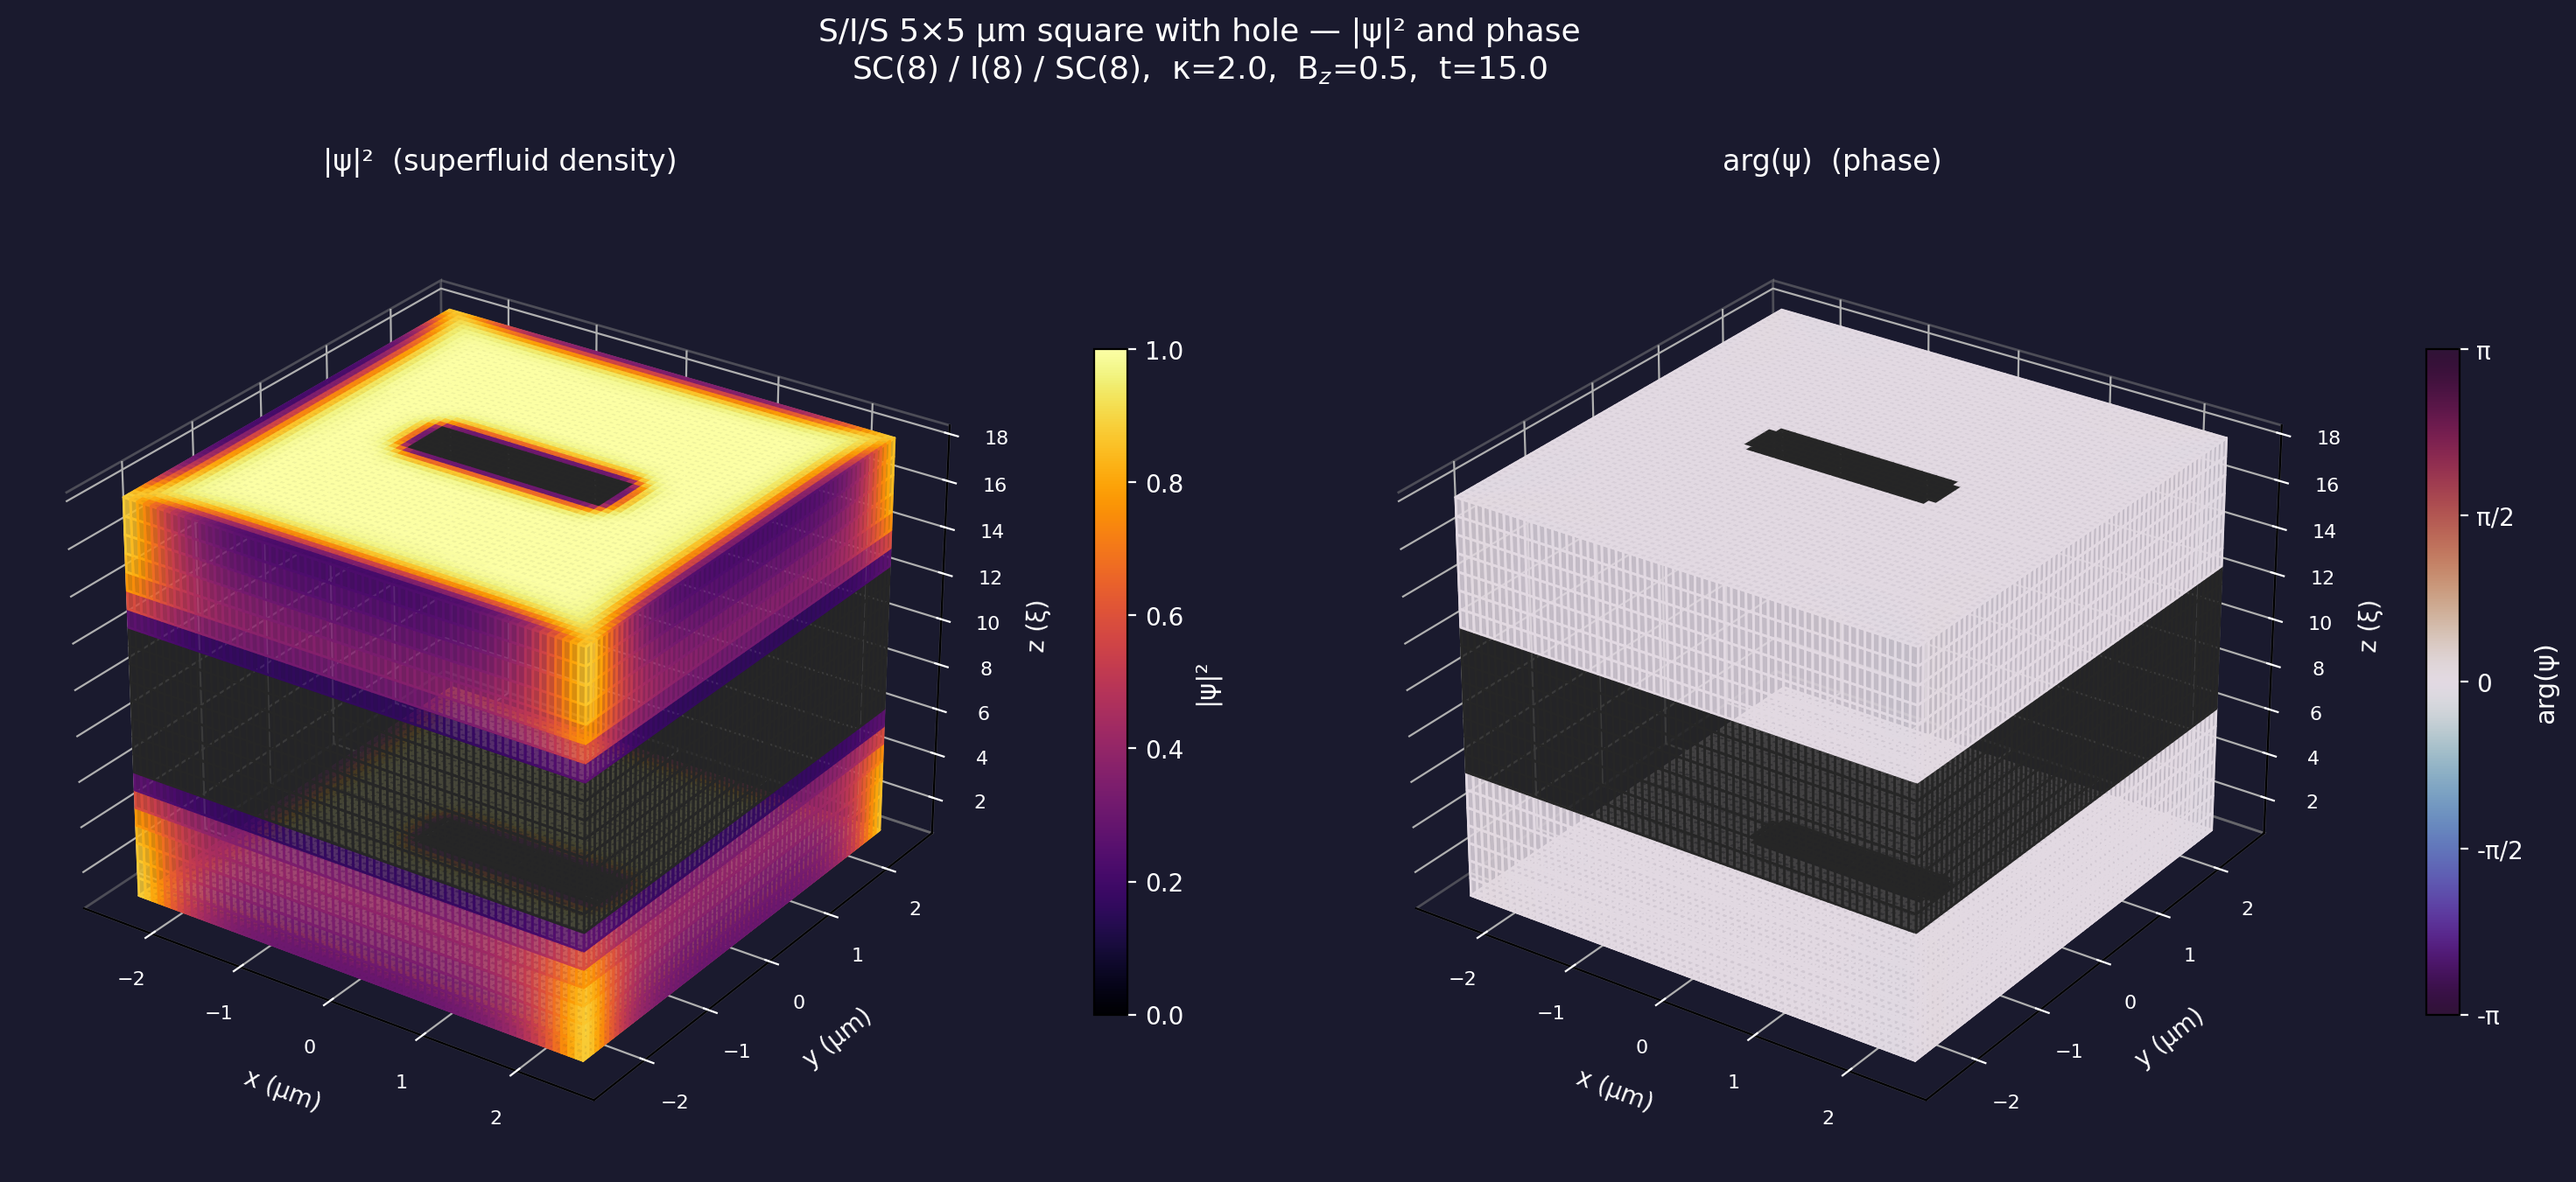
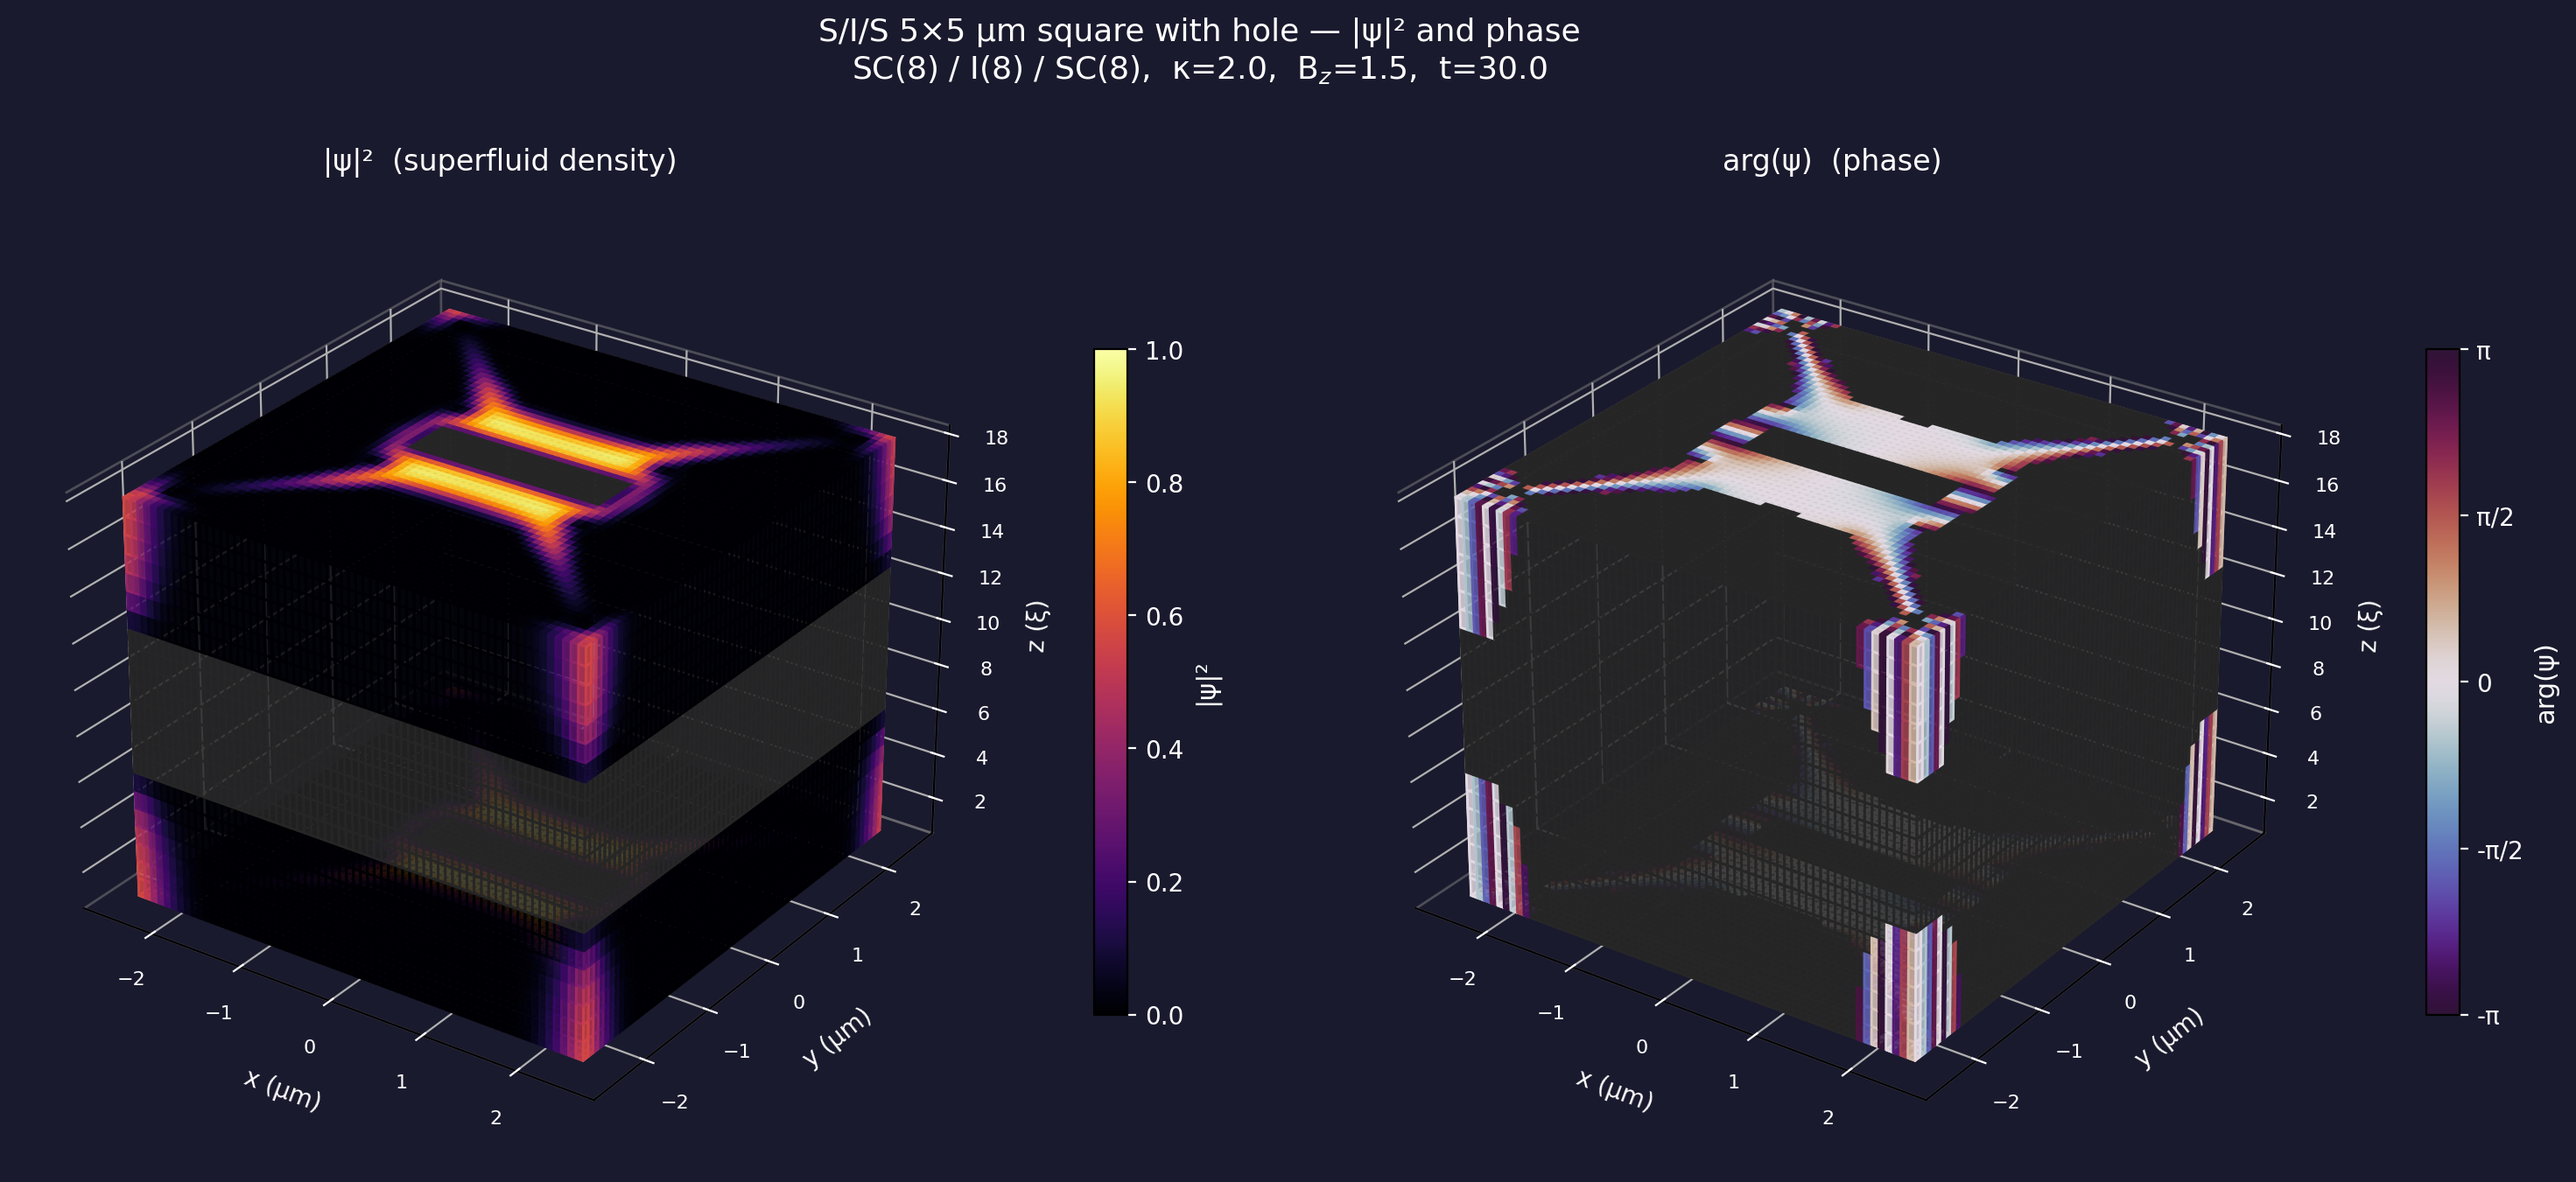
feat: update SIS square simulation parameters and improve documentation; add new visual assets

Changed region(s): [[0.0309, 0.2487, 0.371, 0.9016], [0.5566, 0.2487, 0.8658, 0.9016]]

diff --git a/examples/sis_square_with_hole.py b/examples/sis_square_with_hole.py
@@ -60,8 +60,8 @@ HOLE_Y_MIN_UM, HOLE_Y_MAX_UM = -0.2, 0.2
 
 # Time integration
 DT = 0.01
-T_STOP = 15.0
-BZ = 0.5
+T_STOP = 30.0
+BZ = 1.5
 SAVE_EVERY = 50
 
 
@@ -79,9 +79,9 @@ def carve_hole(device: tdgl3d.Device) -> None:
     """Modify the device's MaterialMap in-place to create a rectangular hole.
 
     Nodes inside the hole rectangle (in x–y) within the superconducting
-    z-layers are marked as insulator (sc_mask = 0, kappa = 0).
-    The solver's FPSI operator will then drive ψ → 0 at those nodes via
-    the fast relaxation term.
+    z-layers are marked as insulator (sc_mask = 0) so FPSI drives ψ → 0.
+    kappa is left non-zero so link variables can evolve and B-field
+    penetrates the hole.
     """
     params = device.params
     material = device.material
@@ -108,7 +108,9 @@ def carve_hole(device: tdgl3d.Device) -> None:
     # Also include the last node of the top layer
     sc_z_planes = sorted(set(sc_z_planes))
 
-    # Zero out sc_mask and kappa inside the hole for SC z-planes
+    # Zero out sc_mask inside the hole for SC z-planes.
+    # Keep kappa non-zero so the link variables (gauge field) can still
+    # evolve — this allows magnetic flux to penetrate the hole.
     count = 0
     for k in sc_z_planes:
         for j in range(j_lo, j_hi + 1):
@@ -116,7 +118,7 @@ def carve_hole(device: tdgl3d.Device) -> None:
                 m = i + mj * j + mk * k
                 if m < len(material.sc_mask):
                     material.sc_mask[m] = 0.0
-                    material.kappa[m] = 0.0
+                    # Leave kappa unchanged (inherits from SC layer)
                     count += 1
 
     # Rebuild interior_sc_mask from the updated full-grid sc_mask
@@ -497,7 +499,13 @@ def _compute_bz_full_3d(solution: Solution, device, step: int = -1) -> np.ndarra
     Bz = np.real((1.0 / (p.hx * p.hy)) * (y1[m] - y1[m + mj] - y2[m] + y2[m + 1]))
 
     nx_int, ny_int, nz_int = p.Nx - 1, p.Ny - 1, max(p.Nz - 1, 1)
-    return Bz.reshape(nx_int, ny_int, nz_int)
+    Bz_3d = Bz.reshape(nx_int, ny_int, nz_int)
+    # The last x-row and last y-row of interior nodes see boundary link
+    # variables that carry the applied field directly (staggered-grid artifact).
+    # Replace them with their interior neighbours to remove the edge spike.
+    Bz_3d[-1, :, :] = Bz_3d[-2, :, :]
+    Bz_3d[:, -1, :] = Bz_3d[:, -2, :]
+    return Bz_3d
 
 
 def _get_js_slice(solution: Solution, device, axis: str, index: int, step: int = -1,
@@ -572,8 +580,8 @@ def animate_isometric(solution: Solution, device: tdgl3d.Device,
         s = steps[frame_idx]
 
         # Clear caches for this step
-        _get_bz_full_slice.__defaults__[0].clear()
-        _get_js_slice.__defaults__[0].clear()
+        _get_bz_full_slice.__defaults__[1].clear()
+        _get_js_slice.__defaults__[1].clear()
 
         # ── Panel 1: |ψ|² (3D isometric) ──────────────────────────────
         ax1 = fig.add_subplot(141, projection="3d")
@@ -649,7 +657,7 @@ def main() -> None:
     # ── Build trilayer ──────────────────────────────────────────────────
     trilayer = tdgl3d.Trilayer(
         bottom=tdgl3d.Layer(thickness_z=SC_THICKNESS, kappa=KAPPA),
-        insulator=tdgl3d.Layer(thickness_z=INS_THICKNESS, kappa=0.0, is_superconductor=False),
+        insulator=tdgl3d.Layer(thickness_z=INS_THICKNESS, kappa=KAPPA, is_superconductor=False),
         top=tdgl3d.Layer(thickness_z=SC_THICKNESS, kappa=KAPPA),
     )
 
@@ -659,7 +667,19 @@ def main() -> None:
         kappa=KAPPA,
     )
     # Nz will be overridden by the trilayer
-    field = tdgl3d.AppliedField(Bz=BZ, t_on_fraction=1.0, ramp=True, ramp_fraction=0.5)
+    # Field profile: zero for 5% of t_stop, ramp from 5% to 20%, hold at full for rest
+    def _field_profile(t: float, t_stop: float) -> tuple[float, float, float]:
+        t_wait = 0.05 * t_stop   # zero-field settling period
+        t_ramp_end = 0.20 * t_stop  # ramp completes at 20% of simulation
+        if t <= t_wait:
+            return 0.0, 0.0, 0.0
+        elif t < t_ramp_end:
+            scale = (t - t_wait) / (t_ramp_end - t_wait)
+            return 0.0, 0.0, BZ * scale
+        else:
+            return 0.0, 0.0, BZ
+
+    field = tdgl3d.AppliedField(Bz=BZ, field_func=_field_profile)
     device = tdgl3d.Device(params, applied_field=field, trilayer=trilayer)
 
     print(device)
@@ -676,7 +696,7 @@ def main() -> None:
     x0 = device.initial_state()
     # Add small random noise to break symmetry and help vortex nucleation
     rng = np.random.default_rng(42)
-    noise = 0.01 * (rng.standard_normal(params.n_interior)
+    noise = 0.05 * (rng.standard_normal(params.n_interior)
                      + 1j * rng.standard_normal(params.n_interior))
     x0.psi[:] += noise * device.material.interior_sc_mask
     n_zero = int(np.sum(np.abs(x0.psi) < 1e-12))
